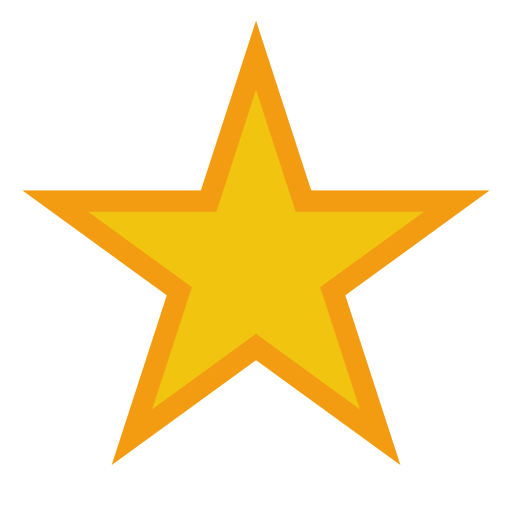
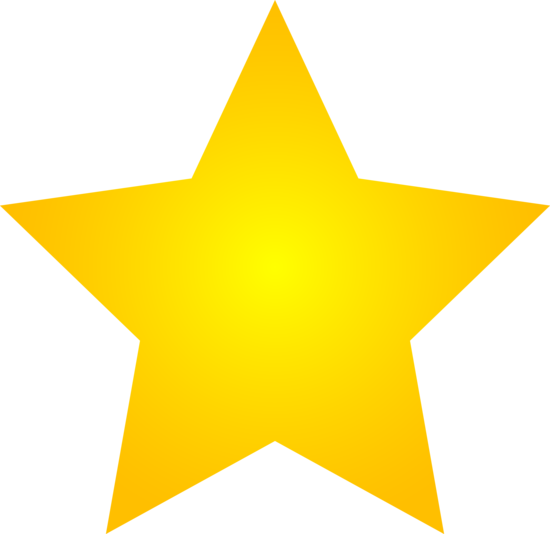
adding heroku files

diff --git a/templates/machinelearning.html b/templates/machinelearning.html
@@ -38,17 +38,16 @@
 
     <div class="container-fluid">
       <div class="intro">
-      <br>
       <h4> Machine Learning Techniques Applied to Geyser Eruptions in Yellowstone 1970-2019</h4>
       <br>
       <p>Old Faithful Geyser in Yellowstone National Park is a unique hydrothermal feature that gained its name from its reputation for erupting very regularly approximately every hour. In recent years, the waiting time has fluctuated considerably. Several studies have addressed this relationship using a small dataset of 272 measurements taken in August 1985 (Hardle (1991); Azzalini and Bowman (1990)) and these data are even used as a classic training dataset as part of the R program training manual. In this project, all eruption data available from ranger log transcriptions from 1970 through July 2019 were compiled to create the most complete dataset of Old Faithful eruptions. Several machine learning techniques were utilized, including linear regression, K-means clustering, and polynomial regression to find a predictive relationship between waiting time between eruption and duration of eruption. In the earliest years of Old Faithful observations (1970-1992), robust descriptions of both waiting times and durations were recorded. In more recent years (1992-2019), the National Park Service has recorded more frequent individual waiting time intervals (0-1 minutes) versus a more holistic approach of categorizing of an entire eruption event, which may contain several mini-eruptions. They have also abandoned the practice of recording the duration of eruptions in minutes, and frequently use categories of "long," "short," and "medium" duration instead. This fundamental change in reporting affects the machine learning results, rendering these techniques less useful in making predictions. However, overall one can see from these data that the waiting time between eruptions in minutes has shifted from 50-60 minutes in the 1970's and 1980's, to approximately 95 minutes today. </p>
       </div>
     </div>
 
-    <div class="container">
+    <div class="container-fluid">
       <div class="row">
         <div class="col-md-8">
-          <img src="static/images/waiting_year.JPG" alt="Waiting times 1970-2019">
+          <img src="static/images/waiting_year.JPG" alt="Waiting times 1970-2019" width="100%" height="100%">
         </div>
         <div class="col-md-4">
           <br><br><br>
@@ -58,10 +57,10 @@
     </div> <!-- End container -->
     <hr>
 
-    <div class="container">
+    <div class="container-fluid">
       <div class="row">
         <div class="col-md-8">
-          <img src="static/images/bimodal_w_recent_data.JPG" alt="bimodal distribution">
+          <img src="static/images/bimodal_w_recent_data.JPG" alt="bimodal distribution" width="100%" height="100%">
         </div>
         <div class="col-md-4">
           <br><br><br>
@@ -71,10 +70,10 @@
     </div> <!-- End container -->
     <hr>
 
-   <div class="container">
+   <div class="container-fluid">
      <div class="row">
        <div class="col-md-8">
-         <img src="static/images/bimodal.JPG" alt="bimodal distribution truncated" >
+         <img src="static/images/bimodal.JPG" alt="bimodal distribution truncated" width="100%" height="100%">
        </div>
        <div class="col-md-4">
          <br><br><br>
@@ -84,10 +83,10 @@
     </div> <!-- End container -->
     <hr>
 
-    <div class="container">
+    <div class="container-fluid">
       <div class="row">
         <div class="col-md-8">
-         <img src="static/images/waiting_duration.JPG" alt="scatter plot waiting time vs. duration">
+         <img src="static/images/waiting_duration.JPG" alt="scatter plot waiting time vs. duration" width="100%" height="100%">
        </div>
        <div class="col-md-4">
          <br><br><br>
@@ -97,10 +96,10 @@
     </div> <!-- End container -->
     <hr>
 
-    <div class="container">
+    <div class="container-fluid">
       <div class="row">
         <div class="col-md-8">
-         <img src="static/images/waiting_dur_early_late_trend.JPG" alt="scatter plot waiting time vs. duration">
+         <img src="static/images/waiting_dur_early_late_trend.JPG" alt="scatter plot waiting time vs. duration" width="100%" height="100%">
        </div>
        <div class="col-md-4">
          <p>Of all machine learning methods employed, linear regression was the best fit for predicting waiting times for Old Faithful eruptions, with the fit through the late dataset slightly better.<br><br>
@@ -117,9 +116,7 @@
        </div>
       </div> <!-- End row -->
     </div> <!-- End container -->
-    <hr>
 
-    <center><p>Predictions for next eruption: (duration + 1.1823)/0.0656</p></center>
 
     <!-- Optional JavaScript -->
     <!-- jQuery first, then Popper.js, then Bootstrap JS -->

diff --git a/templates/index.html b/templates/index.html
@@ -84,17 +84,17 @@
 
     <div class="container-fluid">
       <div class="row justify-content-start">
-        <div class="col-md-6">
+        <div class="col-md-5">
           <div class="panel1">
             <h4>The Geology Behind Old Faithful</h4>
             <br>
-					   <p>Yellowstone National Park is located above a hotspot where the lithosphere rides over the mantle. Basalt generated magma is associated with hotspots, and under decompression and low pressure, low temperature material will begin to melt. Geysers are associated with hotspot and are formed when rain or melted snow percolates into the ground through cracks and fractures and interacts with the hot underlying rocks. The water reaches temperatures over 100 degrees Celsius, but because there is so much rock above the water, the water does not boil. Instead it becomes superheated and pressurized. Once enough pressure builds up, the superheated water will overcome the weight of the overlying rocks and burst out of the ground in an explosive manner. </p>
+					   <p>Yellowstone National Park is located above a hotspot where the lithosphere rides over the mantle. Under decompression and low pressure, low temperature material will begin to melt. Geysers are associated with hotspots and are formed when rain or melted snow percolates into the ground through cracks and fractures and interacts with the hot underlying rocks. The water reaches temperatures over 100 degrees Celsius, but because there is so much rock above the water, the water does not boil. Instead it becomes superheated and pressurized. Once enough pressure builds up, the superheated water will overcome the weight of the overlying rocks and burst out of the ground in an explosive manner. </p>
              <br>
-             <p> Old Faithful in Yellowstone is one of the most famous geysers in the world, and erupts approximately every 90 minutes and can reach up to nearly 200 feet in height. However, in the past Yellowstone erupted much more frequently, on average about every 50 minutes. So what contributed to this change? Over several eruptions, one observes that when the eruption ("duration" in this study) is short (less than about two minutes in length), then the next eruption usually occurs more quickly (i.e., the "waiting time" is decreased). When the eruption is more powerful (up to five minutes long), it takes more time for the pressure to reach the critical level, and the waiting time increases significantly.
+             <p> Old Faithful in Yellowstone is one of the most famous geysers in the world, and erupts approximately every 95 minutes and can reach up to nearly 200 feet in height. However, in the past Yellowstone erupted much more frequently, on average about every 50 minutes. What contributed to this change? Over several eruptions, one observes that when the eruption is short ("duration" in this study), then the next eruption usually occurs more quickly (i.e., the "waiting time" is decreased). When the eruption is more powerful (up to five minutes long), it takes more time for the pressure to reach the critical level, and the waiting time increases significantly.
              </p>
 					 </div> <!-- End panel -->
          </div>
-        <div class="col-md-6">
+        <div class="col-md-7">
           <div class="panel2">
             <center>
             <h4>The Anatomy of a Geyser</h4>
@@ -131,9 +131,10 @@
         </div>
         </div>
         <div class="col-md-6">
-          <center><h4>Geysers of Yellowstone National Park</h4></center>
-            <div id="map"></div>
+            <center><h4>Geysers of Yellowstone National Park</h4></center>
+            <div id="map">
           </div>
+        </div>
       </div> <!-- End row -->
     </div> <!-- End container -->
 

diff --git a/static/css/styles.css b/static/css/styles.css
@@ -11,7 +11,9 @@ body {
     height: 90%;
     width: 95%;
     margin: 3%
-    padding: 3%
+    padding: 3%;
+    border-style: solid;
+    border-width: 2px;
 }
 
 .leaflet-control-layers-expanded {
@@ -28,28 +30,33 @@ body {
 }
 
 .container-fluid {
-  background-color: white;
+  padding: 1%;
+  background-color: white
+}
+
+.container {
+  padding: 1%
 }
 
 .panel1 {
-  margin: 3%;
+  margin: 1%;
   padding: 3%
 }
 
 .panel2 {
-  margin: 3%;
+  margin: 1%;
   padding: 3%
 }
 
 .panel3 {
-  margin: 3% !important;
+  margin: 1% !important;
   padding: 3% !important;
-  background-color: lightgrey !important
+  background-color:  lightgrey !important
 
 }
 
 .intro {
-  margin: 3%;
+  margin: 1%;
   padding: 3%;
   background-color: LightSteelBlue
 }
@@ -61,3 +68,30 @@ body {
     left: 0;
     max-height: auto;
   }
+
+@media screen and (max-width: 992px) {
+  #map {
+      height: 60%;
+      width: 55%;
+      margin: 1%
+      padding: 1%
+  }
+  .panel2 {
+    height: 60%;
+    width: 55%;
+    margin: 1%;
+    padding: 1%
+  }
+  }
+
+@media screen and (max-width: 600px) {
+  #map {
+
+      margin: 1%
+      padding: 1%
+  }
+  .panel2 {
+    margin: 1%;
+    padding: 1%
+    }
+}

diff --git a/static/js/map.js b/static/js/map.js
@@ -4,7 +4,7 @@ d3.json(mapurl).then((mapData) => {
 
 //Define icon
     var ofIcon = L.icon({
-        iconUrl: 'static/images/star.JPG',
+        iconUrl: 'static/images/clipart-star.png',
         iconSize: [30,30]
     });
 

diff --git a/app.py b/app.py
@@ -1,0 +1,28 @@
+#  import Flask
+from flask import Flask, render_template
+print(type(render_template))
+# Create an app, being sure to pass __name__
+app = Flask(__name__)
+
+
+#  Define what to do when a user hits the index route
+@app.route('/')
+def index():
+    '''Return the homepage.'''
+    return render_template('index.html')
+
+#  Define what to do when a user accesses Machine Learning route
+@app.route("/ml")
+def ml():
+    return render_template('machinelearning.html')
+
+#  Define what to do when a user accesses Resources route
+@app.route("/references")
+def resources():
+    return render_template('references.html')
+
+#  Define what to do when a user accesses Data route
+
+
+if __name__ == "__main__":
+    app.run(debug=True)

diff --git a/README.md b/README.md
@@ -1,3 +1,2 @@
 # Old_Faithful_Project
-### see it live: heroku-app/kyanite5-faithful
-Old Faithful Geyser in Yellowstone National Park is a unique hydrothermal feature that gained its name from its reputation for erupting very regularly approximately every hour. In recent years, the waiting time has fluctuated considerably. Several studies have addressed this relationship using a small dataset of 272 measurements taken in August 1985 (Hardle (1991); Azzalini and Bowman (1990)) and these data are even used as a classic training dataset as part of the R program training manual. In this project, all eruption data available from ranger log transcriptions from 1970 through July 2019 were compiled to create the most complete dataset of Old Faithful eruptions. Several machine learning techniques were utilized, including linear regression, K-means clustering, and polynomial regression to find a predictive relationship between waiting time between eruption and duration of eruption. In the earliest years of Old Faithful observations (1970-1992), robust descriptions of both waiting times and durations were recorded. In more recent years (1992-2019), the National Park Service has recorded more frequent individual waiting time intervals (0-1 minutes) versus a more holistic approach of categorizing of an entire eruption event, which may contain several mini-eruptions. They have also abandoned the practice of recording the duration of eruptions in minutes, and frequently use categories of "long," "short," and "medium" duration instead. This fundamental change in reporting affects the machine learning results, rendering these techniques less useful in making predictions. However, overall one can see from these data that the waiting time between eruptions in minutes has shifted from 50-60 minutes in the 1970's and 1980's, to approximately 90 minutes today. 
+Machine Learning applied to the Old Faithful geyser in Yellowstone National Park
